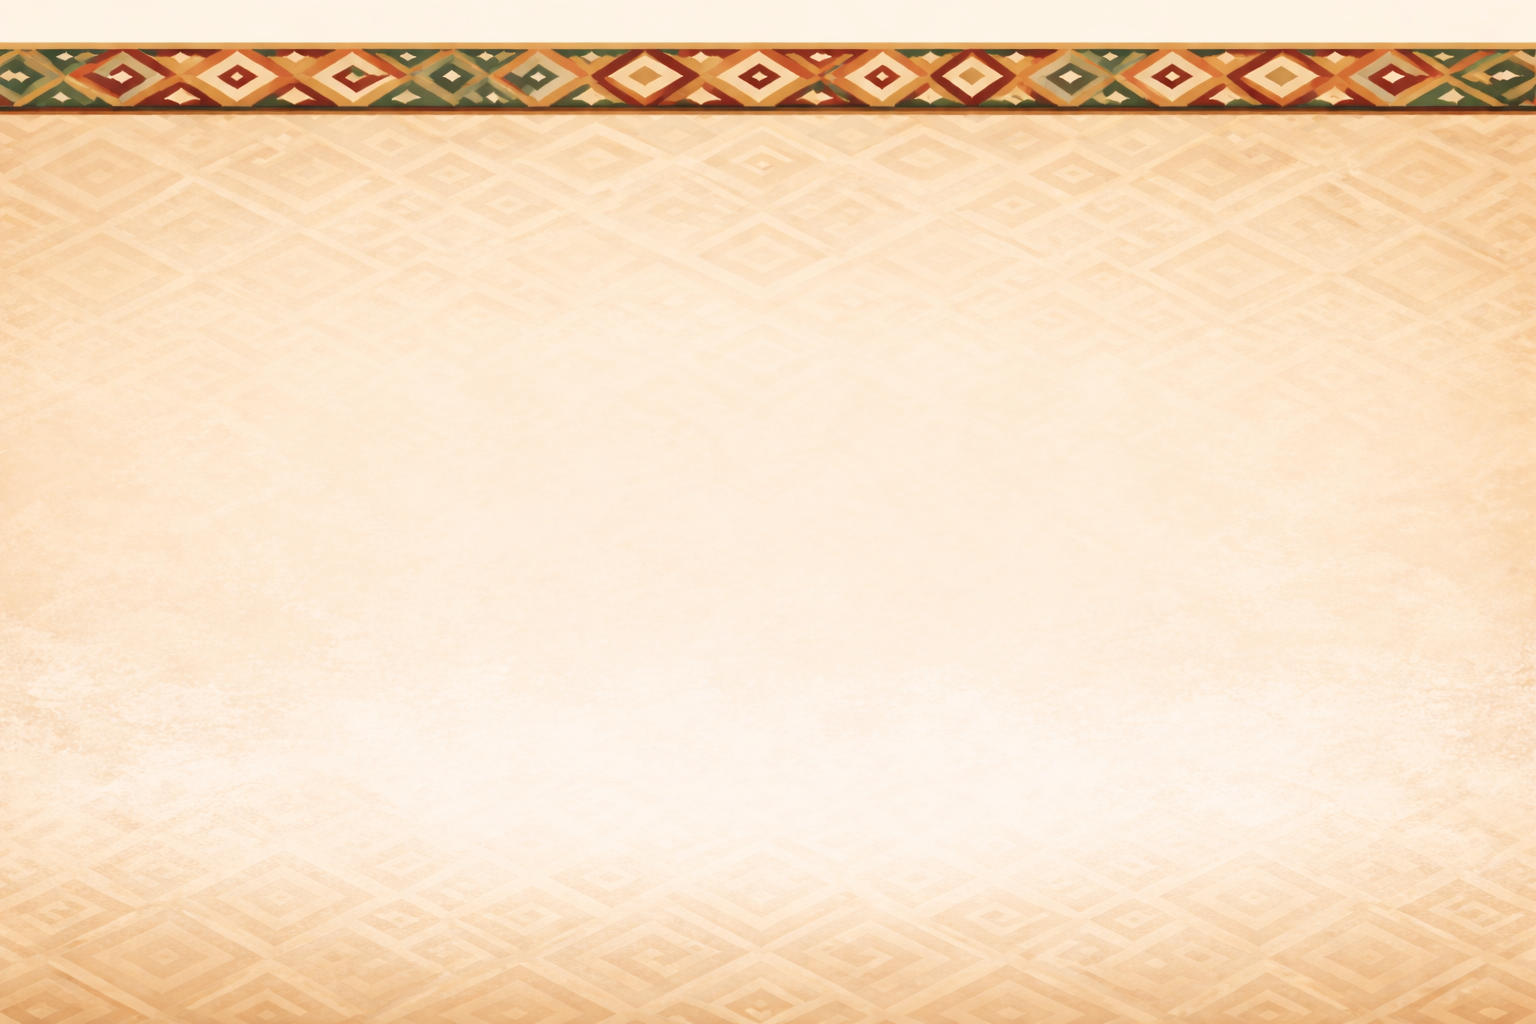
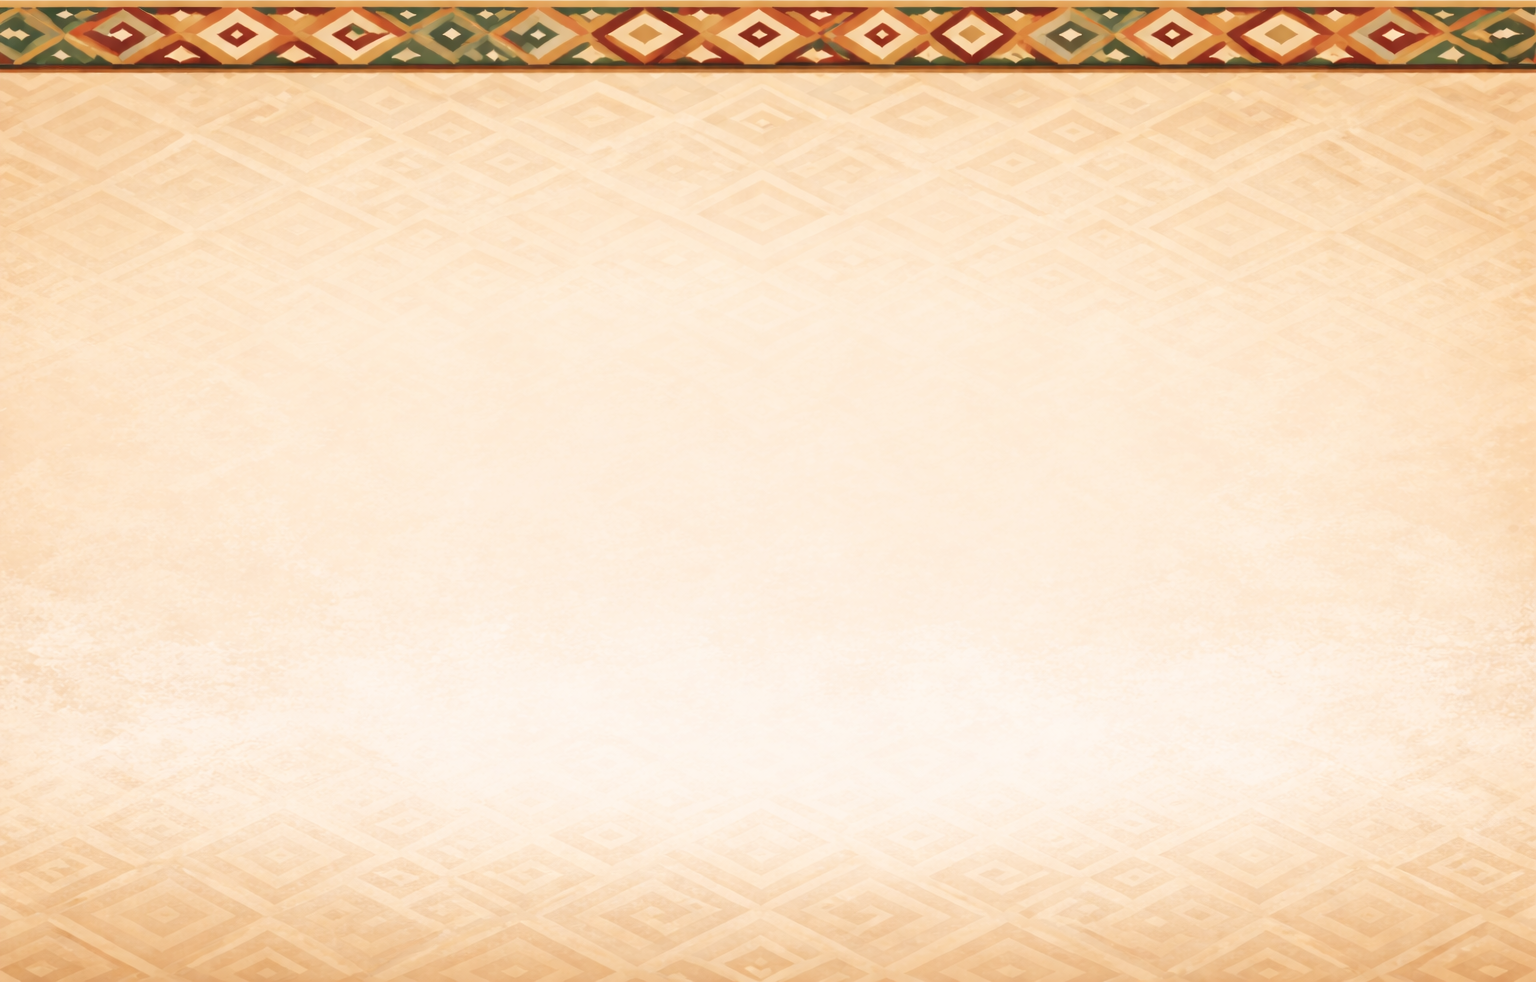
Crop border flush to top and soften with 55% opacity
Cropped the border-full-page.png to remove whitespace above the
Sadu strip so it sits flush against the top edge. Added a separate
background layer at 55% opacity over white for a softer look.

https://claude.ai/code/session_01Pu7yQtYgAGtcQnG92Qfznt

diff --git a/src/components/layout/AppShell.tsx b/src/components/layout/AppShell.tsx
@@ -17,16 +17,20 @@ interface AppShellProps {
  */
 export function AppShell({ children, className, compact = false }: AppShellProps) {
   return (
-    <div
-      className={cn("min-h-screen relative", className)}
-      style={{
-        backgroundImage: `url(${borderFullPageImg})`,
-        backgroundSize: "cover",
-        backgroundPosition: "top center",
-        backgroundRepeat: "no-repeat",
-        backgroundAttachment: "fixed",
-      }}
-    >
+    <div className={cn("min-h-screen relative", className)} style={{ backgroundColor: "#FFFFFF" }}>
+      {/* Background image layer with reduced opacity */}
+      <div
+        style={{
+          position: "fixed",
+          inset: 0,
+          backgroundImage: `url(${borderFullPageImg})`,
+          backgroundSize: "cover",
+          backgroundPosition: "top center",
+          backgroundRepeat: "no-repeat",
+          opacity: 0.55,
+          pointerEvents: "none",
+        }}
+      />
       <div className={cn(
         "relative mx-auto w-full max-w-2xl",
         compact ? "px-5 py-6" : "px-6 pt-4 pb-8 md:pt-6 md:pb-12"
